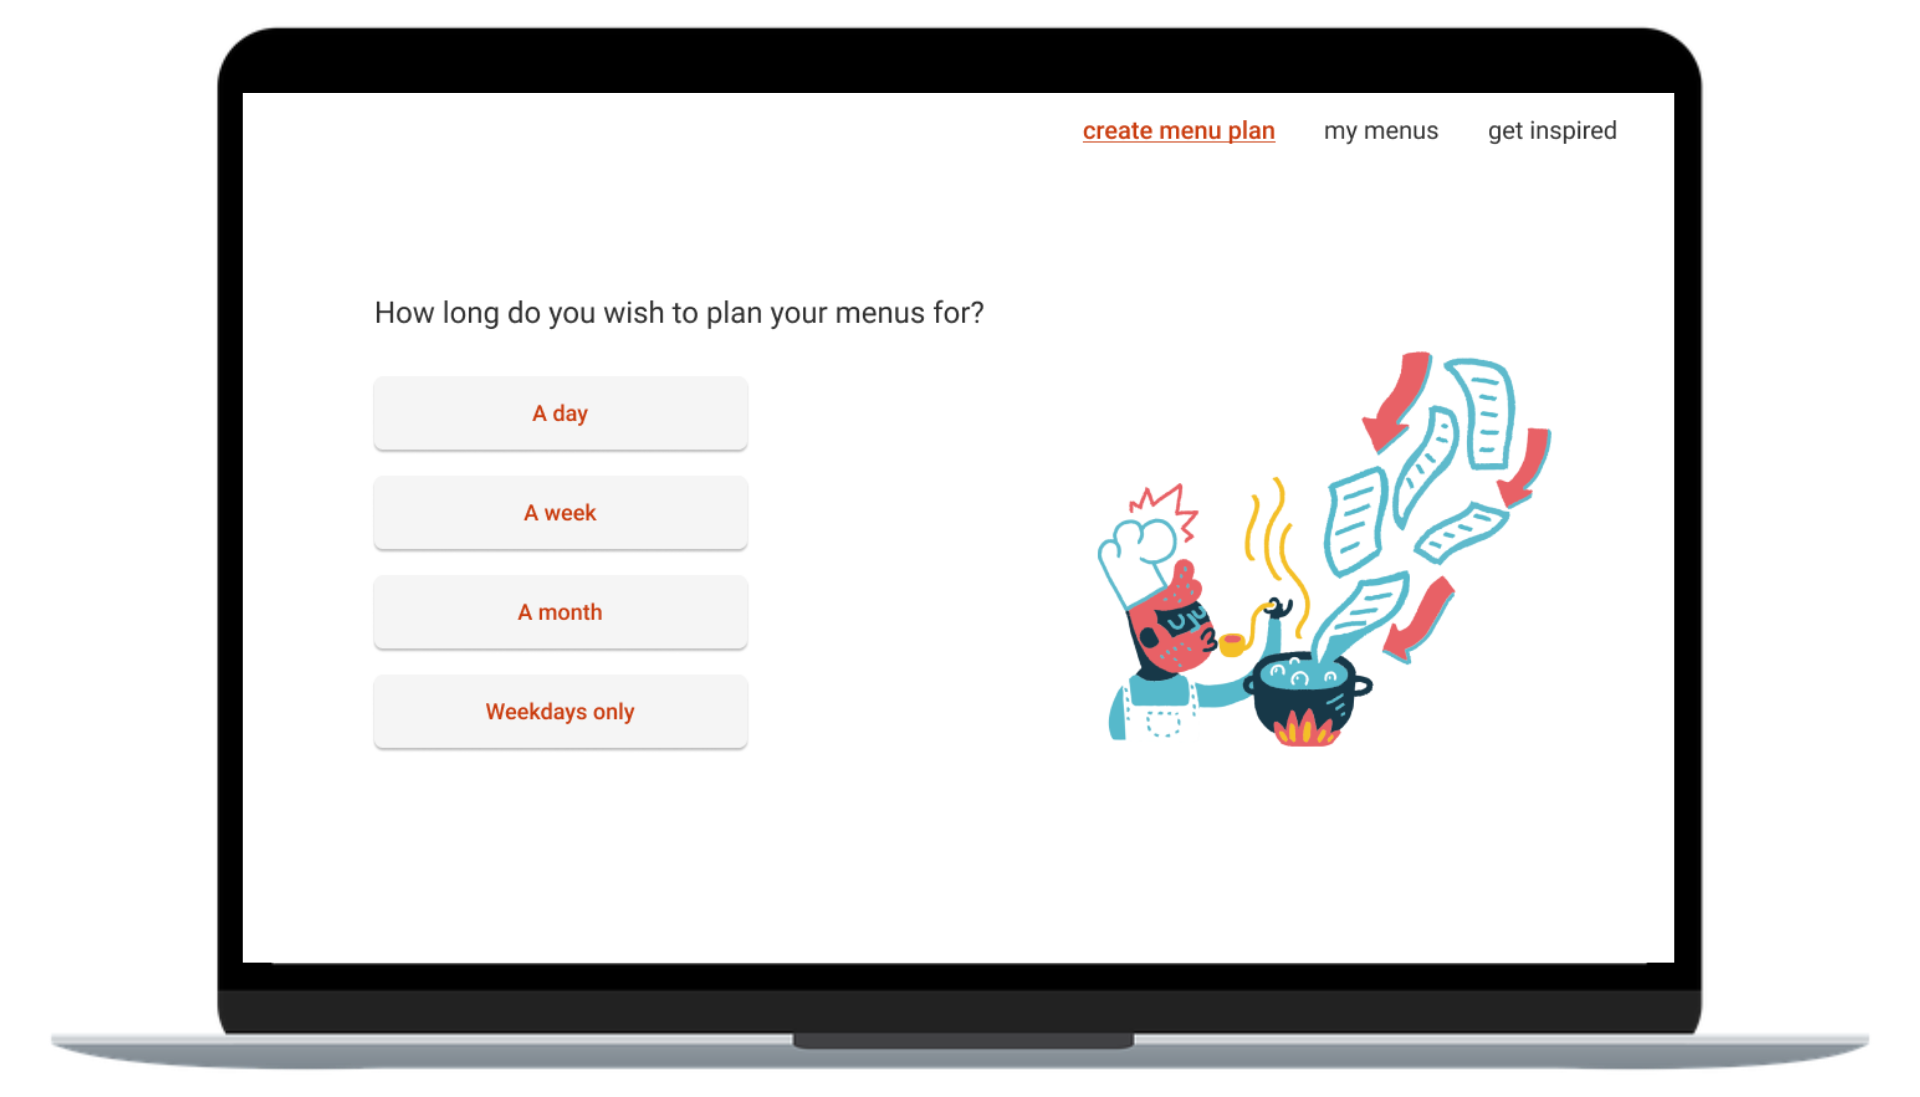
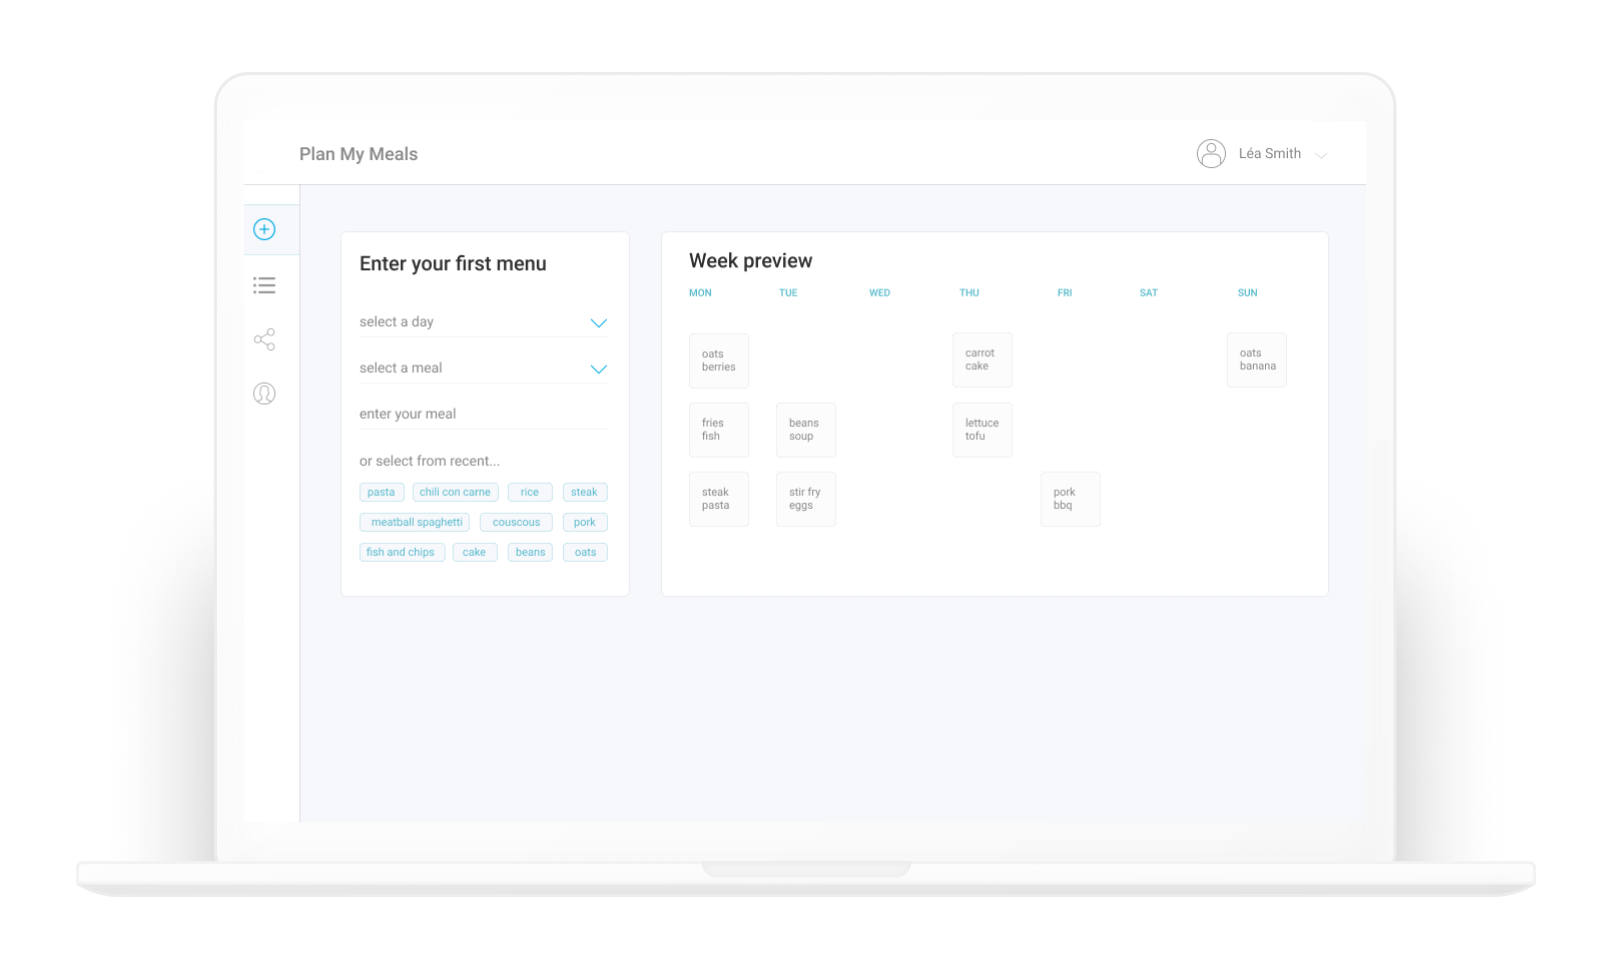
add new plan my meal design

diff --git a/planmymeals.html b/planmymeals.html
@@ -84,10 +84,14 @@
             <img src="images/pmm-joli.png" alt="" class="img-fluid">
             <h2 class="mb-3 mt-5">#1. Plan My Meals</h2>
             <p>Conception d’un site web permettant de planifier simplement ses repas pour la journée, la semaine ou le mois.</p>
-            <video width="100%" controls="controls">
-              <source src="images/pmm-video.mp4" type="video/mp4">
-              <source src="walkme.ogg" type="video/ogg">
-            </video>
+            <div class="row">
+              <div class="col-md-6">
+                <a href="images/PMM2.png"><img src="images/PMM2.png" alt="Feed" class="img-fluid"></a>
+              </div>
+              <div class="col-md-6">
+                <a href="images/PMM3.png"><img src="images/PMM3.png" alt="Feed" class="img-fluid"></a>
+              </div>
+            </div>
             <div class="text-center">
               <a href="#interfaces" class="btn btn-secondary mt-4 mb-4">Voir le design final</a>
             </div>
@@ -255,10 +259,15 @@
 
         <div class="row">
           <div class="col-md-6">
-            <a href="images/pmmwf0.png"><img src="images/pmmwf0.png" class="img-fluid"></a>
+            <img src="images/PMMWF/1.png" style="-webkit-filter: grayscale(100%);" class="img-fluid">
           </div>
           <div class="col-md-6">
-            <a href="images/pmmwf1.png"><img src="images/pmmwf1.png" class="img-fluid"></a>
+            <img src="images/PMMWF/2.png" style="-webkit-filter: grayscale(100%);" class="img-fluid">
+          </div>
+        </div>
+        <div class="row">
+          <div class="col-md-6 mt-4">
+            <img src="images/PMMWF/3.png" style="-webkit-filter: grayscale(100%);" class="img-fluid">
           </div>
         </div>
       </div>
@@ -270,53 +279,38 @@
     <div class="row">
       <div class="col-md-8 offset-md-2 ftco-animate">
         <h2 class="mb-3 mt-5">#10. Charte Graphique</h2>
-        <img src="images/chartegraphique.png" style="border:1px solid lightgrey;border-bottom:1px solid lightgrey;" alt="" class="img-fluid">
+        <img src="images/chartegraphique.png" class="img-fluid">
         <h2 class="mb-3 mt-5" id="interfaces">#11. Design Final</h2>
       </div>
     </div>
+  </div>
+</section>
+<section class="bg-grey">
+  <div class="container mt-5">
     <div class="row">
-      <div class="col-md-12">
-        <a href="images/PMM.png"><img src="images/PMM.png" alt="" width="100%" class="mt-5"></a>
-        <p class="text-center">Page d'accueil</p>
-
-        <a href="images/PMM2.png"><img src="images/PMM2.png" alt="" class="img-fluid mt-5"></a>
-        <p class="text-center">Choix de la durée du plan</p>
-
-        <a href="images/PMM3.png"><img src="images/PMM3.png" alt="" class="img-fluid mt-5"></a>
-        <p class="text-center">Saisie du menu</p>
-
-        <a href="images/PMM5.png"><img src="images/PMM5.png" alt="" class="img-fluid mt-5"></a>
-        <p class="text-center">Fin de la saisie</p>
-
-        <a href="images/PMM6.png"><img src="images/PMM6.png" alt="" class="img-fluid mt-5"></a>
-        <p class="text-center">Consultations des menus</p>
-
-        <a href="images/PMM7.png"><img src="images/PMM7.png" alt="" class="img-fluid mt-5"></a>
-        <p class="text-center">Affichage d'un menu</p>
-
-        <div class="tag-widget post-tag-container mb-5 mt-5 text-center">
-          <div class="tagcloud">
-            <a href="#" class="tag-cloud-link">UX</a>
-            <a href="#" class="tag-cloud-link">UI</a>
-            <a href="#" class="tag-cloud-link">Design</a>
-            <a href="#" class="tag-cloud-link">Research</a>
-            <a href="#" class="tag-cloud-link">Wireframes</a>
-            <a href="#" class="tag-cloud-link">Mockups</a>
-            <a href="#" class="tag-cloud-link">Web</a>
-            <a href="#" class="tag-cloud-link">App</a>
-          </div>
-          <a href="#" class="btn btn-secondary mt-5">Retour en haut</a>
-        </div>
+      <div class="col-md-12 ftco-animate">
+        <img src="images/PMM1.png" class="img-fluid">
       </div>
     </div>
   </div>
-</div>
 </section>
 <!-- .section -->
-
+<div class="tag-widget post-tag-container mb-5 mt-5 text-center">
+  <div class="tagcloud">
+    <a href="#" class="tag-cloud-link">UX</a>
+    <a href="#" class="tag-cloud-link">UI</a>
+    <a href="#" class="tag-cloud-link">Design</a>
+    <a href="#" class="tag-cloud-link">Research</a>
+    <a href="#" class="tag-cloud-link">Wireframes</a>
+    <a href="#" class="tag-cloud-link">Mockups</a>
+    <a href="#" class="tag-cloud-link">Web</a>
+    <a href="#" class="tag-cloud-link">App</a>
+  </div>
+  <a href="#" class="btn btn-secondary mt-5">Retour en haut</a>
+</div>
 <!-- loader -->
 <div id="ftco-loader" class="show fullscreen">
-<svg class="circular" width="48px" height="48px"><circle class="path-bg" cx="24" cy="24" r="22" fill="none" stroke-width="4" stroke="#eeeeee"/><circle class="path" cx="24" cy="24" r="22" fill="none" stroke-width="4" stroke-miterlimit="10" stroke="#F96D00"/></svg>
+  <svg class="circular" width="48px" height="48px"><circle class="path-bg" cx="24" cy="24" r="22" fill="none" stroke-width="4" stroke="#eeeeee"/><circle class="path" cx="24" cy="24" r="22" fill="none" stroke-width="4" stroke-miterlimit="10" stroke="#F96D00"/></svg>
 </div>
 
 <script src="js/jquery.min.js"></script>
